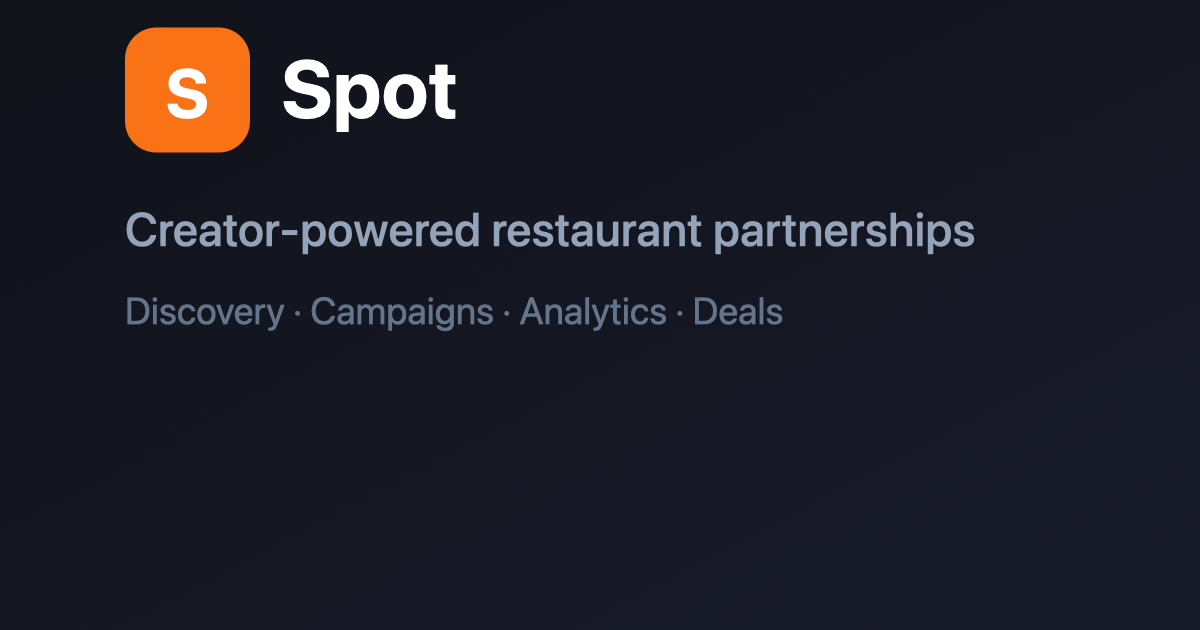
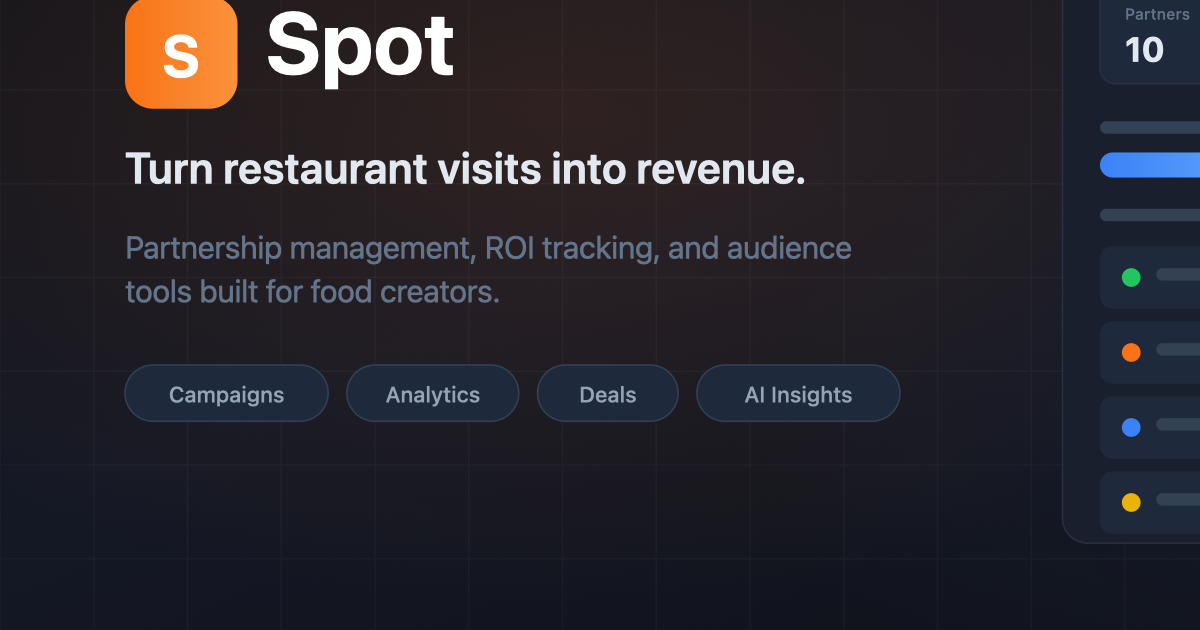
Redesign OG image with dashboard mockup and sharpen meta tags
Rich link preview now shows Spot branding, tagline, feature pills, and a
mini dashboard mockup with metrics, pipeline bar, and activity list.
Added Twitter card tags for large image previews.

diff --git a/index.html b/index.html
@@ -8,9 +8,13 @@
     <meta name="theme-color" content="#f97316" />
     <meta name="description" content="Spot Platform — Creator-powered restaurant discovery, partnership management, and audience tools" />
     <meta property="og:type" content="website" />
-    <meta property="og:title" content="Spot Platform" />
-    <meta property="og:description" content="Creator-powered restaurant discovery, partnership management, and audience tools" />
+    <meta property="og:title" content="Spot — Turn Restaurant Visits Into Revenue" />
+    <meta property="og:description" content="Partnership management, ROI tracking, and audience tools built for food creators." />
     <meta property="og:image" content="/og-image.png" />
+    <meta name="twitter:card" content="summary_large_image" />
+    <meta name="twitter:title" content="Spot — Turn Restaurant Visits Into Revenue" />
+    <meta name="twitter:description" content="Partnership management, ROI tracking, and audience tools built for food creators." />
+    <meta name="twitter:image" content="/og-image.png" />
     <link rel="preconnect" href="https://fonts.googleapis.com" />
     <link rel="preconnect" href="https://fonts.gstatic.com" crossorigin />
     <link href="https://fonts.googleapis.com/css2?family=Inter:wght@400;500;600;700&display=swap" rel="stylesheet" />
